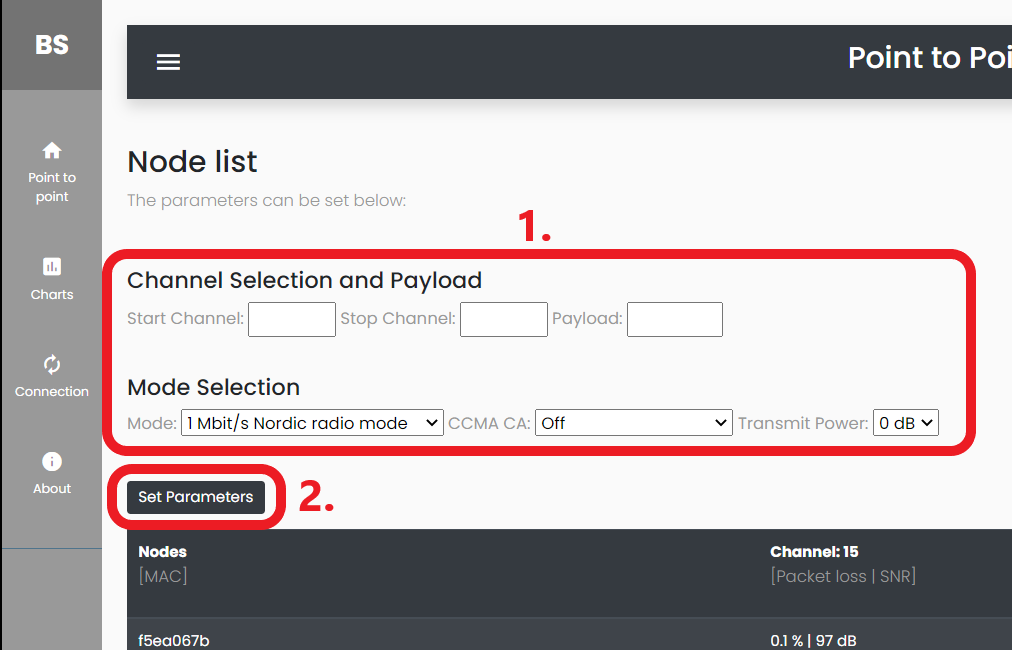
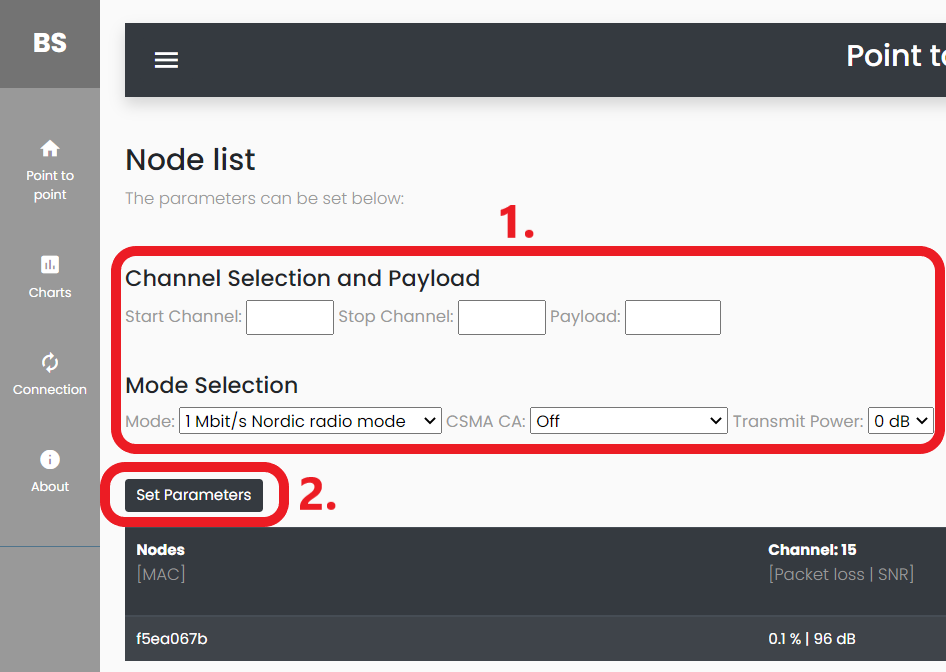
Bilder ersetzt und sachen ergänzt

diff --git a/Fachbericht/sections/0_3_Testkonzept P2P.tex b/Fachbericht/sections/0_3_Testkonzept P2P.tex
@@ -97,20 +97,16 @@ Zur Inbetriebnahme müssen jedoch folgende Voraussetzungen bezüglich vorhandene
 	\end{itemize}
 \end{itemize}
 
-Eine Anleitung und der Sourcecode sind im \href{https://github.com/Rouben94/P6_Software}{Github Repository\footnotemark[\value{footnote}]} zu diesem Projekt verfügbar \cite{github_p6_software_p2p_2020}.
+Eine Anleitung und der Sourcecode sind im \href{https://github.com/Rouben94/P6_Software}{Github-Repository\footnote{\url{https://github.com/Rouben94/P6_Software}\cite{anklin_bobst_horath_rouben94p6_software_nodate}}} zu diesem Projekt verfügbar \cite{github_p6_software_p2p_2020}.
 Um den Master und die Slaves vorzubereiten sind die beiden mit der entsprechenden Firmware zu laden.
 Anschliessend können die Slaves im Raum platziert und der Master am Laptop eingesteckt werden.
 Sobald diese geschehen ist, kann nach folgender Schritt für Schritt Anleitung vorgegangen werden.
 
 \subsection{Schritt 1 - Webserver Starten}\label{sec:SchrittWebserverStarten}
 Der Webserver wurde mit eine Windows Umgebung entwickelt und getestet. Die folgende Anleitung ist demzufolge nur für eine Windows Umgebung gültig.
-Für die Verwendung mit Linux oder MacOS sind auf der Homepage von \href{https://www.djangoproject.com/}{Django\footnote{\url{https://www.djangoproject.com}}} entsprechende Anleitungen verfügbar.
-Bevor der Webserver gestartet werden kann, muss der Sourcecode vom \href{https://github.com/Rouben94/P6_Software}{Github-Repository\footnotemark[\value{footnote}]} geklont werden.
+Für die Verwendung mit Linux oder MacOS sind unter folgendem \href{https://tutorial.djangogirls.org/en/django_installation/}{Link\footnote{\url{https://tutorial.djangogirls.org/en/django_installation/}}} entsprechende Anleitungen verfügbar.
+Bevor der Webserver gestartet werden kann, muss der Sourcecode vom \href{https://github.com/Rouben94/P6_Software}{Github-Repository\footnotemark[1]} geklont werden.
 Auf der Ordnerebene \textbf{P6\_Software\textbackslash P2P\textbackslash Webserver\textbackslash p2p\_webserver} müssen folgende cmd Befehle ausgeführt werden.
-
-\footnotetext[\value{footnote}]{\url{https://github.com/Rouben94/P6_Software} \cite{anklin_bobst_horath_rouben94p6_software_nodate}}
-
-\todo[inline]{Link zu Django Website einfügen und Footnote Numbering anpassen.}
 
 \begin{lstlisting}[style=DOS]
 Microsoft Windows [Version 10.0.18363.1016]
@@ -173,29 +169,29 @@ Nachdem die serielle Verbindung zum Master hergestellt ist, werden auf der Seite
 
 Damit die Parameter der Nodes verändert werden können, besteht auf der gleichen Seite die Möglichkeit die gewünschten Werte einzugeben und an den Master zu senden. Die Parameter können wie auf der Abbildung \ref{fig:WebserverNodelistView} markiert, definiert werden. Folgende Vorgaben müssen bei der Eingabe eingehalten werden:
 
-\paragraph{Start und Stop Channel}
-Falls IEEE 802.15.4 250kBit Mode ausgewählt:
-\begin{itemize}
-	\item Start Channel 11 bis Stop Channel 26
-\end{itemize}
+\begin{table}[h]
+	\centering
+	\begin{tabular}{|c|l|c|l|}
+		\hline
+		\multicolumn{4}{|c|}{\textbf{Start und Stop Channel Feld}}                                                            \\ \hline
+		\multicolumn{2}{|c|}{\textbf{IEE 802.15.4 250 kBit}}       & \multicolumn{2}{c|}{\textbf{Alle Anderen Modi}}          \\ \hline
+		\multicolumn{2}{|c|}{Start Channel 11 bis Stop Channel 26} & \multicolumn{2}{c|}{Start Channel 0 bis Stop Channel 39} \\ \hline
+	\end{tabular}
+	\caption{Parameter Start und Stop Channel Feld}
+	\label{table:ParameterStartStopChannel}
+\end{table}
 
-Alle anderen Modi:
-\begin{itemize}
-	\item Start Channel 0 bis Stop Channel 39
-\end{itemize}
-
-\paragraph{Payload}
-Falls IEEE 802.15.4 250kBit Mode ausgewählt:
-\begin{itemize}
-	\item 0 - 120 bit
-\end{itemize}
-
-Alle anderen Modi:
-\begin{itemize}
-	\item 0 - 250 bit
-\end{itemize}
-
-\todo[inline]{Vorgaben können evtl. noch als Tabelle dargestellt werden. Könnte übersichtlicher sein.}
+\begin{table}[h]
+	\centering
+	\begin{tabular}{|c|l|c|l|}
+		\hline
+		\multicolumn{4}{|c|}{\textbf{Payload Feld}}                                                            \\ \hline
+		\multicolumn{2}{|c|}{\textbf{IEE 802.15.4 250 kBit}} & \multicolumn{2}{c|}{\textbf{Alle Anderen Modi}} \\ \hline
+		\multicolumn{2}{|c|}{0 - 120 bit}                    & \multicolumn{2}{c|}{0 - 250 bit}                \\ \hline
+	\end{tabular}
+	\caption{Parameter Payload Feld}
+	\label{table:ParameterPayloadFeld}
+\end{table}
 
 \begin{figure} [H]
 	\centering
@@ -408,8 +404,7 @@ Durch Wiederholungen der Messung konnte dieser Fehler als systematisch identifiz
 Mithilfe einer Korrektur um 40$\mu$s konnte die Genauigkeit in den Bereich von 100ns bis 1200ns reduziert werden. Eine Abweichung der Zeitsynchronisation von ca. 1$\mu$s sollte genügend genau sein um als gute Grundlage für die Statemachine aus Abschnitt \ref{sec:SoftundFirmware} zu dienen. 
  
 \subsection{Webserver}\label{subsec:DjangoWebserver}
-\todo[inline]{Evtl. noch eine kurze Einleitung ins Kapitel Webserver
-}
+Damit die P2P-Testinfrastruktur visualisiert und mit einem schönen User Interface gesteuert werden kann, wurde ein Webserver aufgesetzt. Das Ziel ist es auf einem Rechner unter einer Web-Adresse einen Webserver zu erreichen, welche es ermöglicht alle Einstellung über eine serielle Schnittstelle dem BMN mitzuteilen. Somit wird es möglich den Ablauf bequem über den Web-Server zu steuern.
 \subsubsection{Django}\label{subsubsec:Django}
 Um die P2P-Testinfrastruktur bedienen zu können, wurde ein Django Webserver aufgesetzt.
 Django ist ein open-source Webframework, dass auf dem Model-View-Controller Prinzip basiert und in der Programmiersprache Python geschrieben wurde.
@@ -575,7 +570,7 @@ In der Abbildung \ref{fig:ParamForm} und \ref{fig:PortForm} sind die Eingabe For
 
 \begin{figure} [H]
 	\centering
-	\includegraphics[width=0.8\textwidth]{ParamForm.png}
+	\includegraphics[width=\textwidth]{ParamForm.png}
 	\caption{Parameter Form}
 	\label{fig:ParamForm}
 \end{figure}
@@ -586,8 +581,6 @@ In der Abbildung \ref{fig:ParamForm} und \ref{fig:PortForm} sind die Eingabe For
 	\caption{Port Form}
 	\label{fig:PortForm}
 \end{figure}
-
-\todo[inline]{Bild Parameter Form anpassen. Schreibfehler CSMA-CA}
 
 \paragraph{Serielle Kommunikation:}\label{par:SerielleKommunikation}
 Die Serielle Kommunikation wird mit Hilfe der Python Bibliothek \textit{PySerial} aufgebaut. Auf der P2P-Webserver Seite Connect, kann der Port ausgewählt werden, an dem der P2P-Master angeschlossen ist. Sobald die Verbindung zum Master aufgebaut ist, wird ein separater Python Thread gestartet. In diesem Thread wird in einem while-loop das Serielle Interface permanent ausgelesen. Sobald der Master einen neuen Mess-Report schickt, wird dieser ausgewertet und es werden Node und Channel Objekte anhand des Reports erstellt. In der Abbildung \ref{fig:AblaufDjangoSerial} ist der Ablauf ersichtlich.

diff --git a/Fachbericht/sections/4_2_Vergleich.tex b/Fachbericht/sections/4_2_Vergleich.tex
@@ -133,12 +133,11 @@ Schlussendlich lässt sich Thread als klarer Sieger erkennen. Dieser Network-Sta
 
 
 \subsection{Thread}\label{subsec:Thread}
+Wie aus den vorhergehenden Kapiteln ersichtlich hat der Thread Stack die Messungen am besten abgeschlossen. Das bedeutet aber nicht unbedingt, dass der Stack der Beste ist. Es ist klar zu erkennen, dass der Thread Stack dank seiner automatischen Ernennung von Routing-Knoten, sich seiner Umgebung gut anpassen kann. Die Latenzzeit der gesendeten Nachrichten ändert sich in verschiedenen Umgebungen nur minimal. Das bedeutet, dass sich der Stack sehr gut für eine Hausautomation eignet. Wenn sich Sensoren oder Aktoren verschieben, z.B. wenn eine Lampe einen neuen Standort erhaltet, erkennt dies der Stack und kann das Routing der Knoten anpassen. Da sich das Netz sehr gut erweitern lässt und sich die Latenzzeiten eher tief zeigen, kann das Mesh-Netzwerk ausserdem gut für Industrieanwendungen verwendet werden. 
 
-\todo[inline]{Rouben}
+Durch das automatische Routen der Knoten, entsteht auf den einzelnen Nodes jedoch ein Overhead, der zum Beispiel BT-Mesh nicht hat. Aus diesem Grund ist der Energieverbrauch auf den Knoten höher, was sich auch in der Abbildung \ref{fig:EnergieverbrauchMessreihen} zeigt. Dies ist keine repräsentative Messung, da nur die aktiven Radio Zeiten gemessen wurde, es könnte trotzdem die vorherige These mit dem Overhead bestätigen. 
 
-\todo[inline]{Erhöhung der Paketlänge führt zu steigerung des Durchsatzes -> Paylod von 50 Byte reicht aus um innerhalb eines Pakets versendet zu werden. }
-
-\todo[inline]{Pro / COntra eigene Einschätzung des Stacks... z.B. Thread optimal für Homeautomation.. eher nicht geeiget für Smart Agriculture}
+Anders als bei BT-Mesh können mit dem IEEE 802.15.4 und dem 6LoWPAN Layer grösser Pakete versendet werden. Das bedeutet, dass die Segmentierung im Gegensatz zu BL-Mesh später stattfindet. Dies erklärt das Phänomen, dass sich der Durchsatz mit steigender Payload vergrössert. Der Thread Stack erreicht bei manchen Messreihen einen Durchsatz von bis zu 32 kbit pro Sekunde. Dies ist jedoch eher unwahrscheinlich. Das bei den Durchschnittsberechnungen kein Median verwendet wurde, können Extremwerte den Durchschnitt verfälschen. Es gab sehr wenige Latenzmessungen, die Fehlerhaft waren und eine Latenz unter 0.5ms aufwiesen. Durch diesen Fehler wurde der Durchsatz in der Auswertung unwahrscheinlich hoch. 
 
 \subsection{Zigbee}\label{subsec:Zigbee}
 

diff --git a/Fachbericht/sections/4_3_Schluss.tex b/Fachbericht/sections/4_3_Schluss.tex
@@ -6,6 +6,7 @@
 \subsection{Zielerreichung}\label{subsec:Zielerreichung}
 Für die vorliegende Projektarbeit wurden im Pflichtenheft (siehe Anhang \ref{app:Pflichtenheft}) klare Ziele definiert. In den Tabellen \ref{tab:ErreichungP2PZiele}, \ref{tab:ErreichungMeshZiele}, \ref{tab:ErreichungSteuersoftwareZiele} und \ref{tab:ErreichungZusatzziele} sind diese in kurzer Form nochmals zusammen gefasst. Ausserdem ersichtlich ist welche Ziele erfüllt werden konnten und welche hingegen nicht. Wenn nötig ist auch noch ein kurzer Kommentar hinterlegt.
 
+\todo[inline]{Raffi bitte P2P-Tabelle kontrollieren und ergänzen} 
 \paragraph{Punkt zu Punkt Testinfrastruktur}
 \begin{table}[H]
 	\centering
@@ -133,8 +134,9 @@ In dieser Arbeit wurden die drei Mesh Protokolle Bluetooth Mesh, Thread und ZigB
 \begin{itemize}
 	\item ZigBee hat innerhalb einer Umgebung eine sehr konstante Latenzzeit.
 	\item Bluetooth Mesh hat den grössten Vorteil in einer Umgebung, bei der sich die Knoten stetig bewegen. Dies aus dem Grund, dass das Mesh keine Routing Knoten verwendet.
-	\item Der grösste Vorteil von Thread ist es, dass sich das Mesh-Netzwerk selber ausmisst. Die Routenden Knoten werden automatisch bestimmt. Somit kann sich das Protokoll der Umgebung anpassen und konnte dadurch auch in allen Testumgebungen eine tiefe Latenz zu Tage legen.
-	\item \todo[inline]{Noch mehr Infos}
+	\item Der grösste Vorteil von Thread ist es, dass sich das Mesh-Netzwerk selber ausmisst. Die routenden Knoten werden automatisch bestimmt. Somit kann sich das Protokoll der Umgebung anpassen und konnte dadurch auch in allen Testumgebungen eine tiefe Latenz zu Tage legen.
+	\item Ein Nachteil von Thread ist es, dass wegen dem automatischen Routen ein höherer Overhead entsteht. Durch diesem Overhead steigt der Energieverbrauch auf den einzelnen Nodes
+	\item \todo[inline]{Ein Vorteil und ein Nachteil erwähnen pro Mesh-Stack. Raffel und Cyrill bitte noch ausfüllen}
 \end{itemize}
 
 In den folgenden zwei Paragraphen wird auf einige bekannte Probleme im Projekt eingegangen und wie diese behoben werden können. Die zwei Teile werden in eher organisatorische Probleme oder eher technische Probleme aufgeteilt.
@@ -165,4 +167,5 @@ In diesem Abschnitt wird erwähnt, welche Module zu den bestehenden noch ergänz
 \end{itemize}
 
 \subsection{Schlusswort}\label{subsec:Schlusswort}
-Die Arbeit hat mir sehr gefallen. 
+Die Arbeit hat mir sehr gefallen.
+\todo[inline]{Robin: Schlusswort schreiben} 

diff --git a/Fachbericht/sections/0_3_Testkonzept Mesh Netzwerke.tex b/Fachbericht/sections/0_3_Testkonzept Mesh Netzwerke.tex
@@ -396,9 +396,13 @@ Mittels einem weiteren Python Skript und manueller Bearbeitung in Excel können 
 Die verschiedenen Benchmark Slave Nodes (BSN) werden mithilfe ihrer MAC-Adresse identifiziert.
 Jedem nRF52840-SOC wird eine 48-bit lange Adresse während der Produktion eingebrannt. Dabei handelt es sich um zufällig generierte Werte.
 Zur Identifizierung im Benchmark werden nur die letzten 32-bit dieser MAC-Adresse verwendet.
-Auf dem nRF-52840-Dongle ist die Adresse auf der Rückseite angegeben (siehe Abbildung ...) und kann so einfach abgelesen werden.
+Auf dem nRF-52840-Dongle ist die Adresse auf der Rückseite angegeben (siehe Abbildung \ref{fig:MACAdresseDongle}) und kann so einfach abgelesen werden.
 
-\todo[inline]{Raffi:  Bei Dongle mit Bild wo die MAC-Adresse abzulessen ist. }
+\begin{figure}[H]
+	\centering
+	\includegraphics[width=0.3\textwidth]{Donge_MAC_Address.jpg}
+	\caption{MAC Adresse nRF52840-Dongle}\label{fig:MACAdresseDongle}
+\end{figure}
 
 
 \subsubsection{Konfiguration Benchmark Slave Node}\label{subsubsec:NodeConfiguration}
